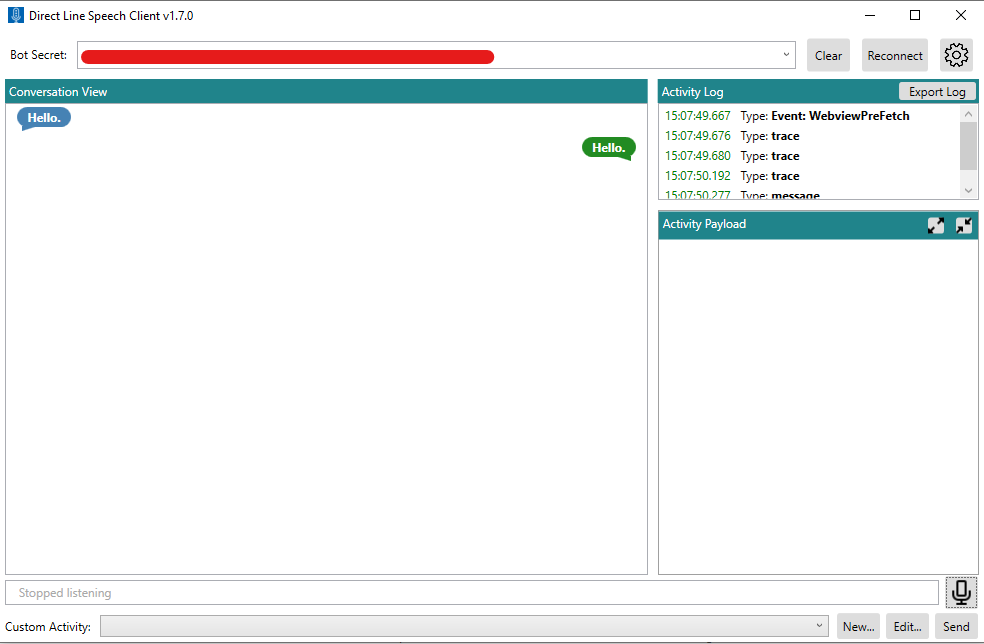
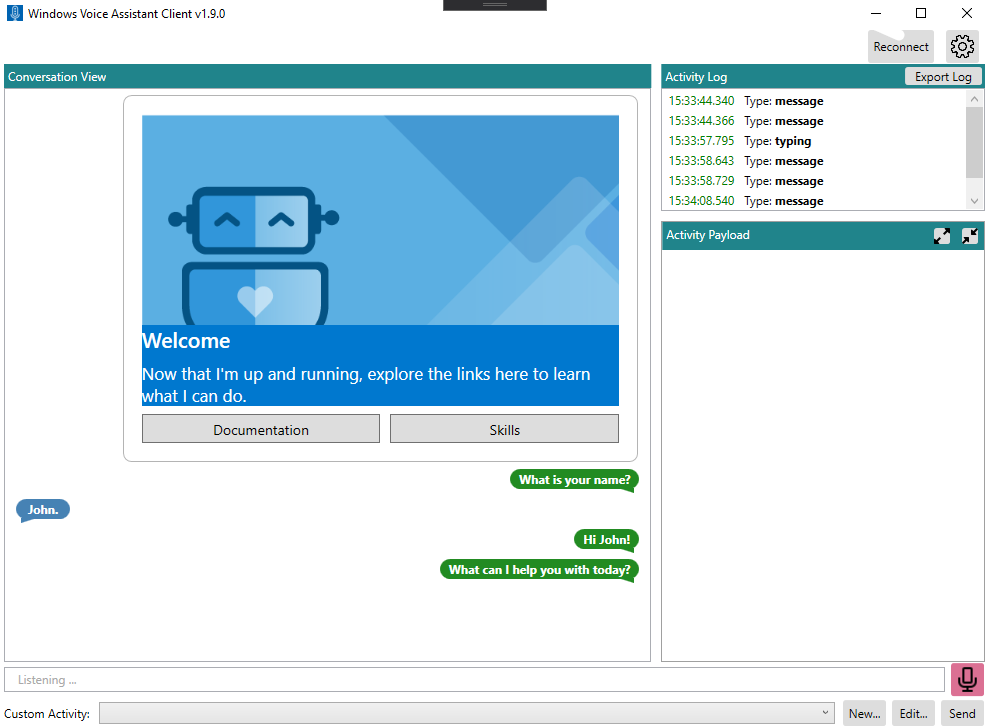
Close #3211 DLS tutorial adds BF Emulator and updates Cognitive Services client

diff --git a/docs/_docs/clients-and-channels/tutorials/enable-speech/4-integrate-speech-channel.md b/docs/_docs/clients-and-channels/tutorials/enable-speech/4-integrate-speech-channel.md
@@ -2,15 +2,19 @@
 layout: tutorial
 category: Clients and Channels
 subcategory: Extend to Direct Line Speech 
-title: Build speech sample app
+title: Select a Direct Line Speech client
 order: 4
 ---
 
 # Tutorial: {{page.subcategory}}
 
-## Integrating with the Speech Channel
+## Option A: Using the Bot Framework 
+1. Download the [latest release from the Bot Framework Emulator repository](https://github.com/Microsoft/botframework-emulator/).
+![Bot Framework Emulator with Direct Line Speech Configuration]({{site.baseurl}}/assets/images/dlspeech_emulator.png)
 
-1. Download the [latest release from the Direct Line Speech Client repository](https://github.com/Azure-Samples/Cognitive-Services-Direct-Line-Speech-Client/releases).
-1. Follow the [quickstart instructions](https://github.com/Azure-Samples/Cognitive-Services-Direct-Line-Speech-Client#quickstart) to set up your environment and connect to your Virtual Assistant.
+
+## Option B: Using a sample Cognitive Services Voice Assistant client
+1. Download the [latest release from the Cognitive Services Voice Assistant repository](https://github.com/Azure-Samples/Cognitive-Services-Voice-Assistant/releases).
+1. Follow the [instructions on getting started](https://github.com/Azure-Samples/Cognitive-Services-Voice-Assistant/tree/master/samples/clients/csharp-wpf#getting-started) to set up your environment and connect to your Virtual Assistant.
 
 ![Direct Line Speech Client Configuration]({{site.baseurl}}/assets/images/dlspeechclient.png)
